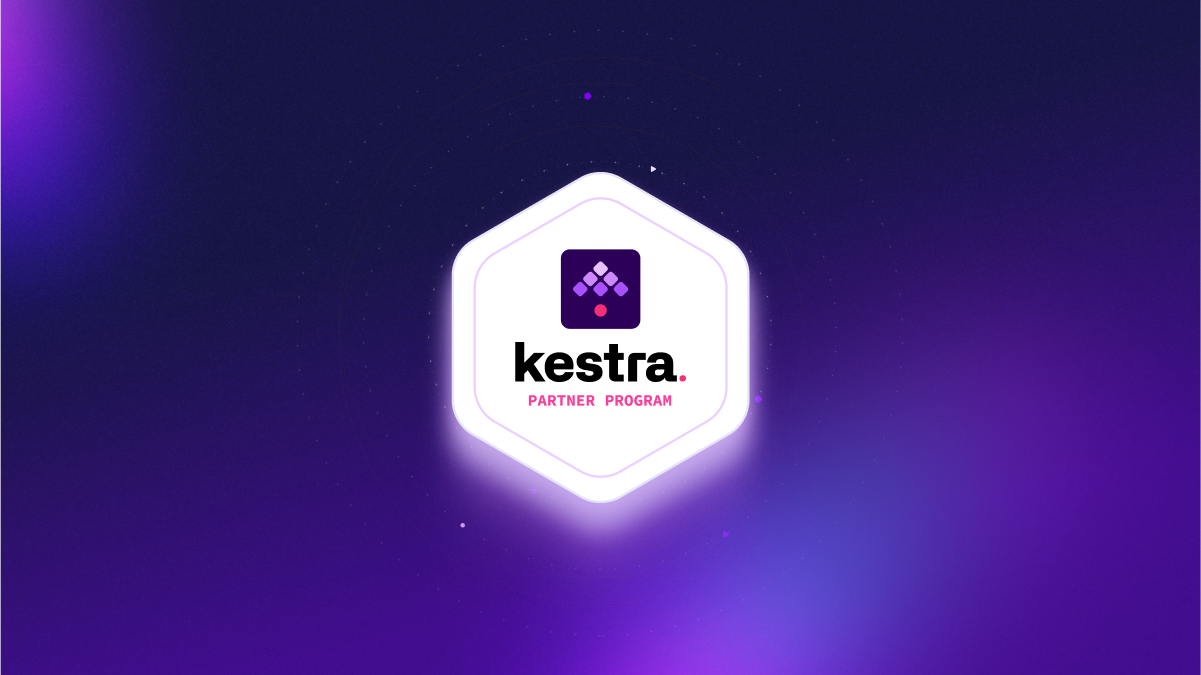
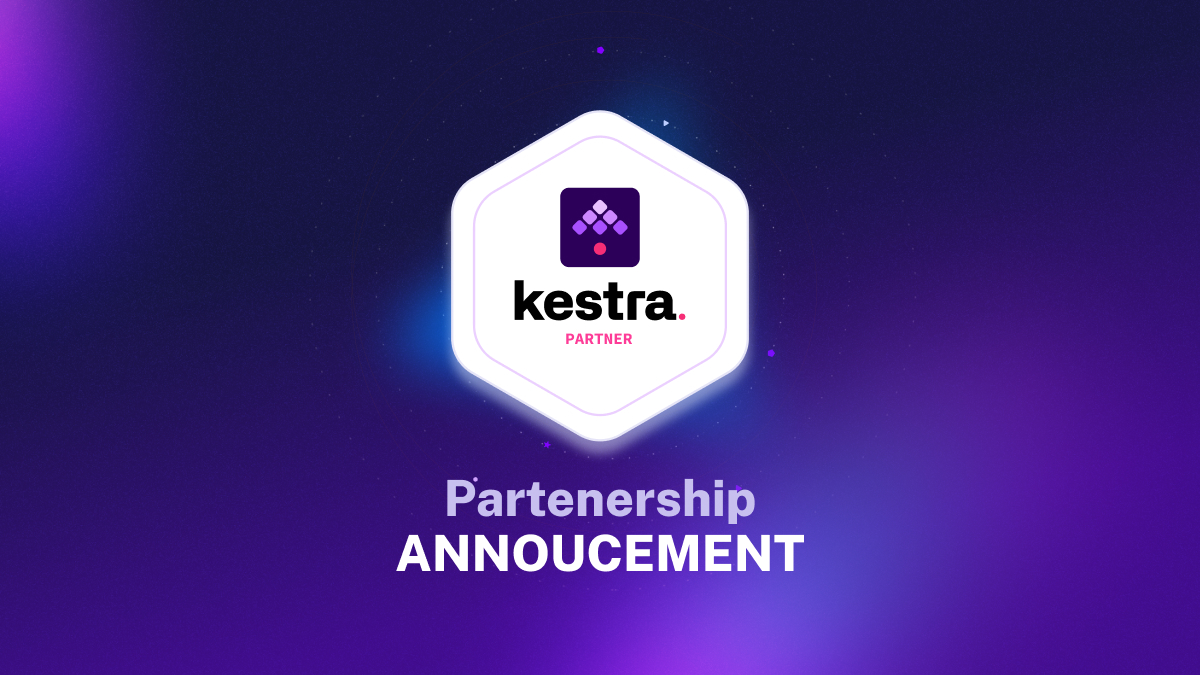
update blog post

Changed region(s): [[0.3083, 0.1244, 0.6783, 0.8711]]

diff --git a/content/blogs/2023-09-18-kestra-partner-program.md b/content/blogs/2023-09-18-kestra-partner-program.md
@@ -13,6 +13,8 @@ We are thrilled to announce the launch of our partner program, a significant mil
 
 As the demand for Kestra continues to grow, we recognize the need for hands-on assistance in various aspects of data orchestration. Whether it's a from-scratch implementation, a re-platforming initiative, a migration project, or an extension through custom development, organizations often require expert guidance and support to ensure successful outcomes. This is where our **Consulting Partners** step in and we couldn't be more excited to welcome [Converteo](https://converteo.com/en/) and [NTICO](https://www.ntico.com/) as our inaugural partners.
 
+![Converteo & Ntico & Kestra Partnership](/blogs/2023-09-18-partners.png)
+
 > “Kestra offers an elegant solution to the pain points we face in the data transformation projects of our customers: monitoring, management, and maintenance of large-scale data flow. What sets Kestra apart is not only its open-source community but also its seamless integration with modern data stack tools like Airbyte and Restack. We are genuinely thrilled to engage with Kestra.”
 
 *Charles Letaillieur, Senior Manager at Converteo.*
